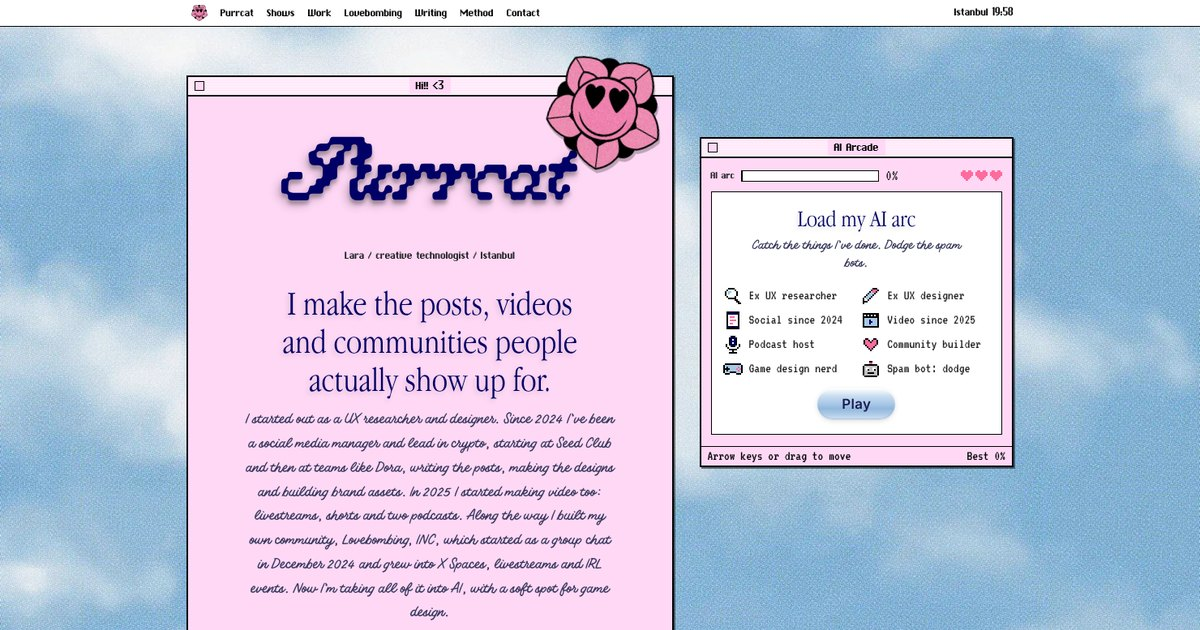
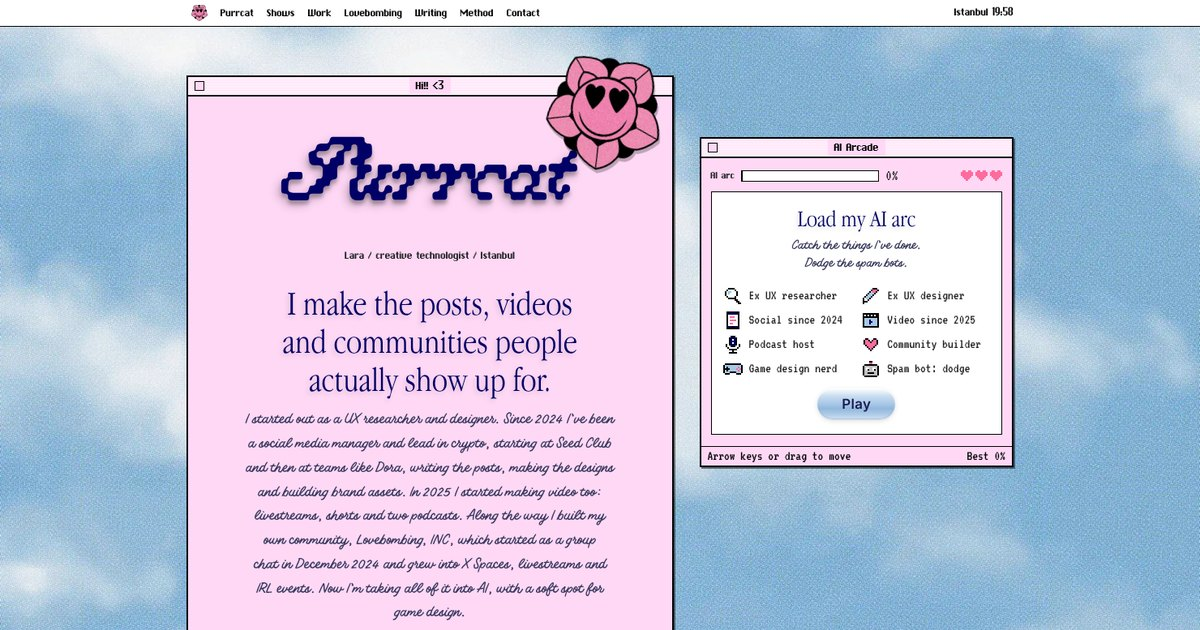
Apply the text balancing to the intro and the game subtitle
The previous commit only refreshed the preview image. This one adds the CSS.

Claude-Session: https://claude.ai/code/session_012vLfLktoEVwbfYkYAVud5t

Changed region(s): [[0.2158, 0.8444, 0.5242, 0.9952], [0.6167, 0.3619, 0.8017, 0.4222]]

diff --git a/index.html b/index.html
@@ -310,7 +310,7 @@ img { max-width: 100%; }
   text-wrap: balance;
   text-shadow: -2px 3px 6px var(--shade-faint);
 }
-.lede { margin: 0; max-width: 50ch; font-family: var(--font-prose); font-size: 17px; line-height: 1.75; color: var(--prose); }
+.lede { margin: 0; max-width: 50ch; font-family: var(--font-prose); font-size: 17px; line-height: 1.75; color: var(--prose); text-wrap: pretty; }
 .actions { display: flex; flex-wrap: wrap; justify-content: center; gap: 12px; margin-top: 4px; }
 
 .info-body { display: grid; gap: 14px; padding: 22px 20px 18px; }
@@ -637,7 +637,7 @@ a.frow:hover span, a.frow:focus-visible span { color: var(--paper); }
   text-align: center;
 }
 .game-h { margin: 0; font-family: var(--font-serif); font-size: 29px; line-height: 1.05; color: var(--navy); text-shadow: -2px 3px 6px var(--shade-faint); }
-.game-sub { margin: 0; max-width: 34ch; font-family: var(--font-prose); font-size: 15px; line-height: 1.5; color: var(--prose); }
+.game-sub { margin: 0; max-width: 34ch; font-family: var(--font-prose); font-size: 15px; line-height: 1.5; color: var(--prose); text-wrap: balance; }
 .legend { list-style: none; margin: 2px 0; padding: 0; width: 100%; max-width: 360px; display: grid; grid-template-columns: repeat(2, minmax(0, 1fr)); gap: 6px 12px; text-align: left; }
 .legend li { display: flex; align-items: center; gap: 8px; min-width: 0; font-family: var(--font-pixel); font-size: 17px; line-height: 1.1; }
 .ico { flex: none; width: 24px; height: 24px; image-rendering: pixelated; }
